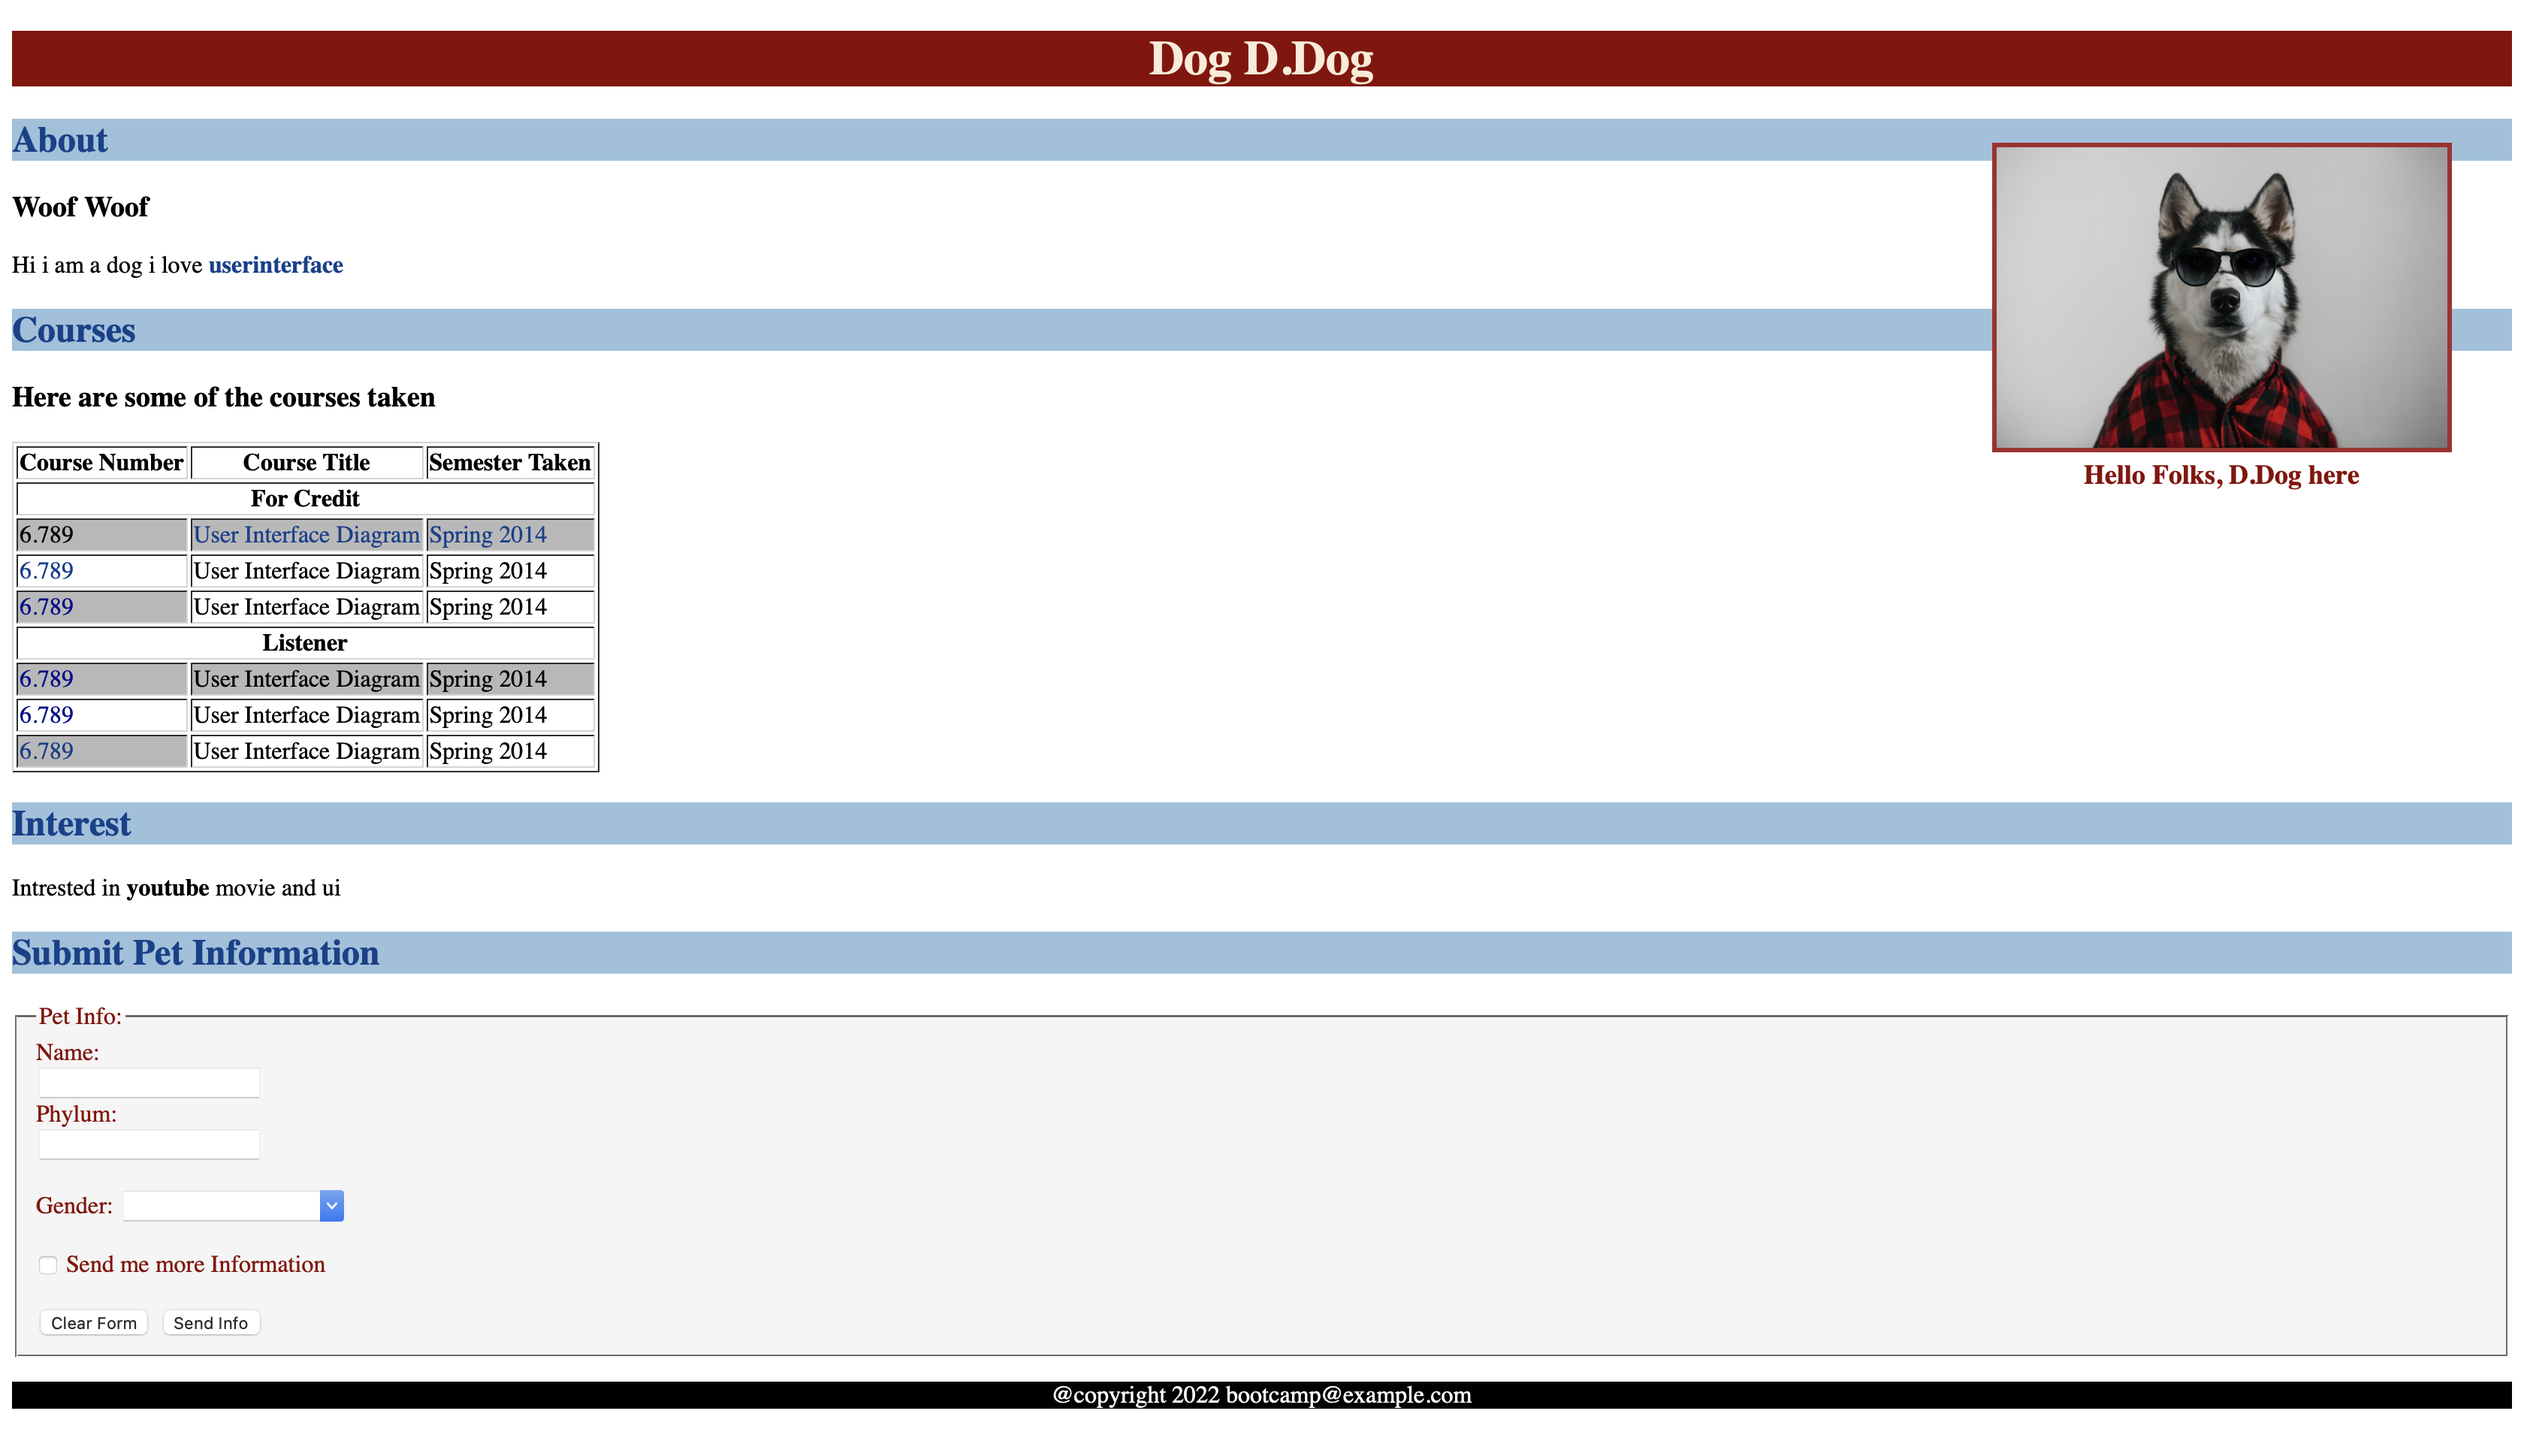
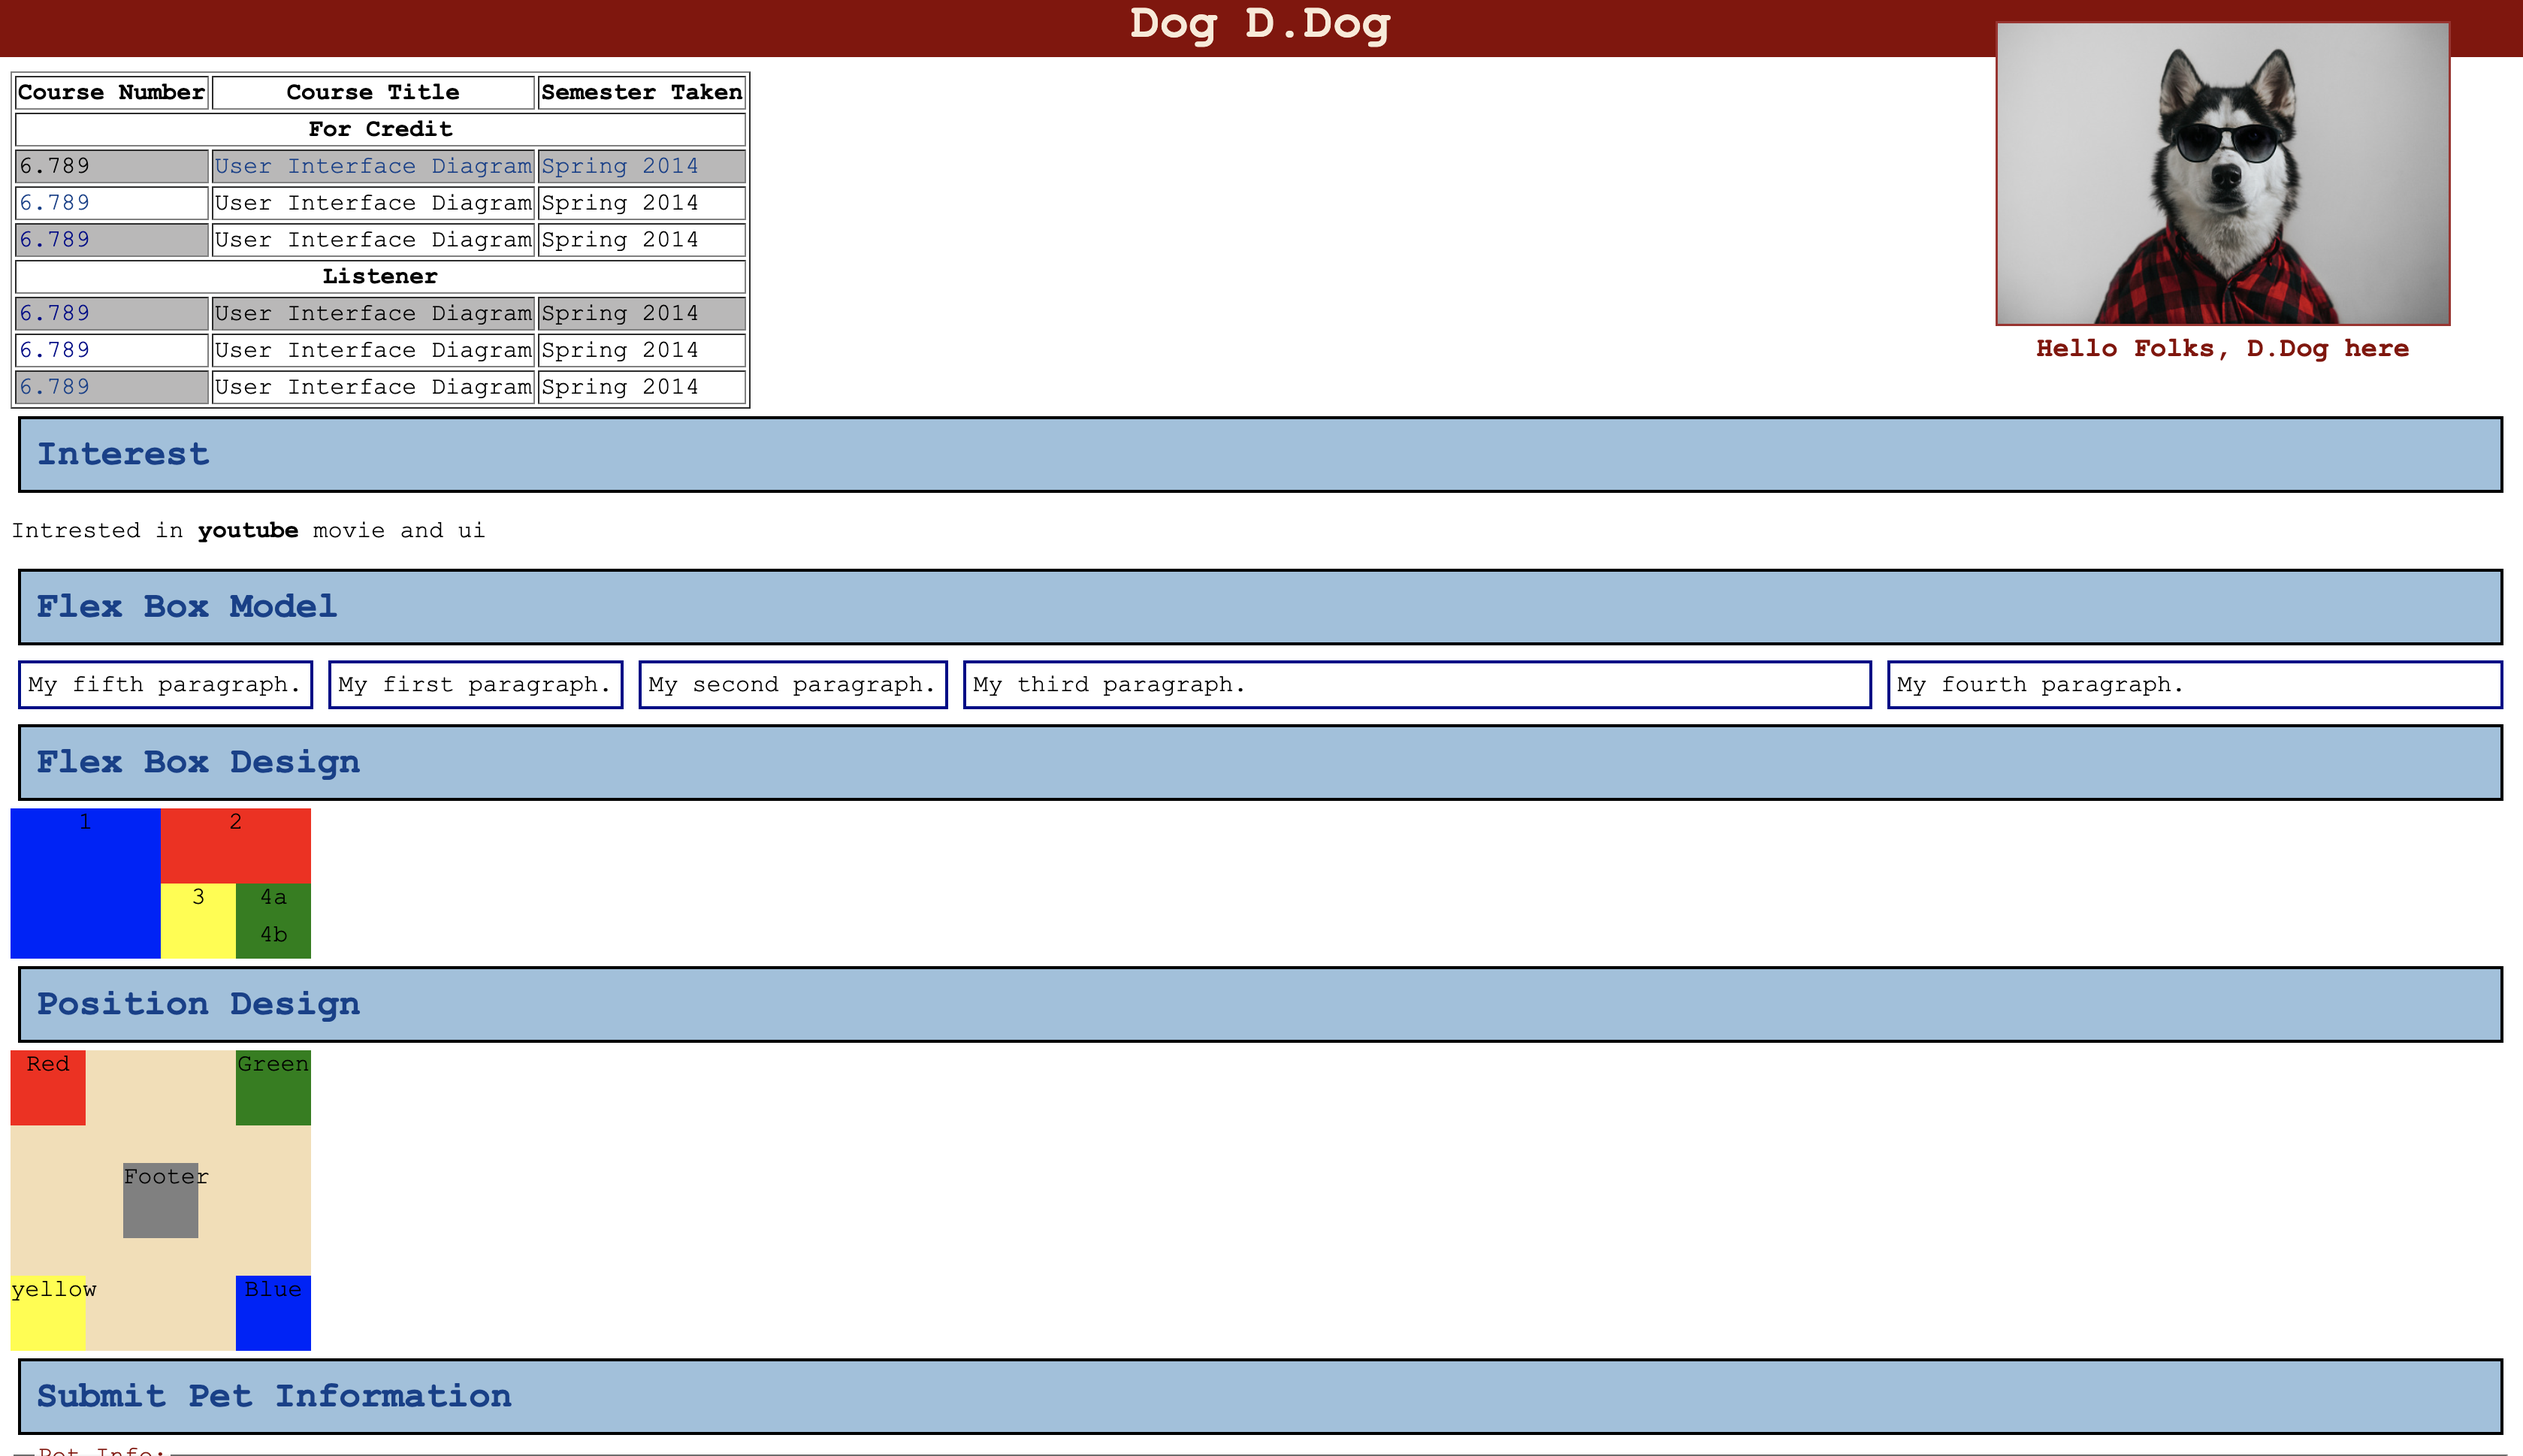
added day2 second half works

diff --git a/Day2-CSS/index.html b/Day2-CSS/index.html
@@ -8,84 +8,7 @@
     />
     <meta http-equiv="X-UA-Compatible" content="ie=edge" />
     <title>Dog.D</title>
-    <style>
-      .aside {
-        float: right;
-        position: sticky;
-        top: 0;
-        z-index: 4;
-      }
-      .footer {
-        text-align: center;
-        background-color: black;
-        color: white;
-        position: relative;
-        width: 100%;
-      }
-      img {
-        height: 200px;
-        width: 300px;
-        border: solid;
-        border-color: brown;
-        opacity: 1;
-      }
-      .header {
-        position: fixed;
-        top: 0;
-        left: 0;
-        width: 100%;
-        height: 40px;
-        z-index: 3;
-        margin-top: 0px;
-        background-color: darkred;
-        color: antiquewhite;
-        text-align: center;
-      }
-      .firstsection {
-        margin-top: 50px;
-      }
-      .section-header {
-        background-color: rgb(156, 193, 221);
-        color: rgb(12, 63, 140);
-        padding: 10px;
-        border: 2px solid black;
-        margin: 5px;
-      }
-      .bluebold {
-        color: rgb(12, 63, 140);
-        font-weight: bold;
-      }
-      .blue {
-        color: rgb(12, 63, 140);
-      }
-      .darkblue {
-        color: darkblue;
-      }
-      .figcaption {
-        text-align: center;
-        color: darkred;
-        font-size: 18px;
-        font-weight: bolder;
-      }
-      .grey-bg {
-        background-color: rgb(185, 184, 184);
-      }
-      .fieldset {
-        color: darkred;
-        background-color: whitesmoke;
-      }
-      .flexbox {
-        display: flex;
-        flex-direction: row;
-        flex-wrap: wrap;
-        justify-content: space-between;
-      }
-      .flex-paragraph {
-        border: 2px solid darkblue;
-        padding: 5px;
-        margin: 5px;
-      }
-    </style>
+    <link rel="stylesheet" href="styles.css" />
   </head>
   <body>
     <header>
@@ -191,6 +114,40 @@
           <p class="flex-paragraph" style="order: -1">
             My fifth paragraph.
           </p>
+        </div>
+      </article>
+    </section>
+
+    <section>
+      <h2 class="section-header">Flex Box Design</h2>
+
+      <article>
+        <div class="flexbox-1">
+          <div class="box-1">1</div>
+          <div class="flexbox-2">
+            <div class="box-2">2</div>
+            <div class="flexbox-3">
+              <div class="box-3">3</div>
+              <div class="flexbox-4">
+                <div class="box-4">4a</div>
+                <div class="box-4">4b</div>
+              </div>
+            </div>
+          </div>
+        </div>
+      </article>
+    </section>
+
+    <section>
+      <h2 class="section-header">Position Design</h2>
+
+      <article>
+        <div class="parent-box">
+          <div class="red-box">Red</div>
+          <div class="green-box">Green</div>
+          <div class="blue-box">Blue</div>
+          <div class="yellow-box">yellow</div>
+          <div class="grey-box">Footer</div>
         </div>
       </article>
     </section>

diff --git a/Day2-CSS/styles.css b/Day2-CSS/styles.css
@@ -1,0 +1,172 @@
+* {
+  font-family: "Lucida Console", "Courier New", monospace;
+}
+
+.aside {
+  float: right;
+  position: sticky;
+  top: 0;
+  z-index: 4;
+}
+.footer {
+  text-align: center;
+  background-color: black;
+  color: white;
+  position: relative;
+  width: 100%;
+}
+img {
+  height: 200px;
+  width: 300px;
+  border: solid;
+  border-color: brown;
+  opacity: 1;
+}
+.header {
+  position: fixed;
+  top: 0;
+  left: 0;
+  width: 100%;
+  height: 40px;
+  z-index: 3;
+  margin-top: 0px;
+  background-color: darkred;
+  color: antiquewhite;
+  text-align: center;
+}
+.firstsection {
+  margin-top: 50px;
+}
+.section-header {
+  background-color: rgb(156, 193, 221);
+  color: rgb(12, 63, 140);
+  padding: 10px;
+  border: 2px solid black;
+  margin: 5px;
+}
+.bluebold {
+  color: rgb(12, 63, 140);
+  font-weight: bold;
+}
+.blue {
+  color: rgb(12, 63, 140);
+}
+.darkblue {
+  color: darkblue;
+}
+.figcaption {
+  text-align: center;
+  color: darkred;
+  font-size: 18px;
+  font-weight: bolder;
+}
+.grey-bg {
+  background-color: rgb(185, 184, 184);
+}
+.fieldset {
+  color: darkred;
+  background-color: whitesmoke;
+}
+.flexbox {
+  display: flex;
+  flex-direction: row;
+  flex-wrap: wrap;
+  justify-content: space-between;
+}
+.flex-paragraph {
+  border: 2px solid darkblue;
+  padding: 5px;
+  margin: 5px;
+}
+.flexbox-1 {
+  display: flex;
+  flex-direction: row;
+  flex-wrap: wrap;
+}
+.box-1 {
+  height: 100px;
+  width: 100px;
+  background: blue;
+  text-align: center;
+}
+.flexbox-2 .flexbox-4 {
+  display: flex;
+  flex-direction: column;
+  flex-wrap: wrap;
+}
+.box-2 {
+  height: 50px;
+  width: 100px;
+  background: red;
+  text-align: center;
+}
+.flexbox-3 {
+  display: flex;
+  flex-direction: row;
+  flex-wrap: wrap;
+}
+.box-3 {
+  height: 50px;
+  width: 50px;
+  background: yellow;
+  text-align: center;
+}
+.box-4 {
+  height: 25px;
+  width: 50px;
+  background: green;
+  text-align: center;
+}
+
+.parent-box {
+  height: 200px;
+  width: 200px;
+  background: wheat;
+  position: relative;
+}
+
+.red-box {
+  height: 50px;
+  width: 50px;
+  background: red;
+  text-align: center;
+  position: relative;
+  top: 0;
+  left: 0;
+}
+.blue-box {
+  height: 50px;
+  width: 50px;
+  background: blue;
+  text-align: center;
+  position: relative;
+  left: 150px;
+  top: 50px;
+}
+.green-box {
+  height: 50px;
+  width: 50px;
+  background: green;
+  text-align: center;
+  position: relative;
+  left: 150px;
+  bottom: 50px;
+}
+.yellow-box {
+  height: 50px;
+  width: 50px;
+  background: yellow;
+  text-align: center;
+  position: relative;
+  left: 0;
+  bottom: 0;
+}
+.grey-box {
+  height: 50px;
+  width: 50px;
+  background: grey;
+  text-align: center;
+  position: relative;
+  left: 75px;
+  bottom: 125px;
+}
